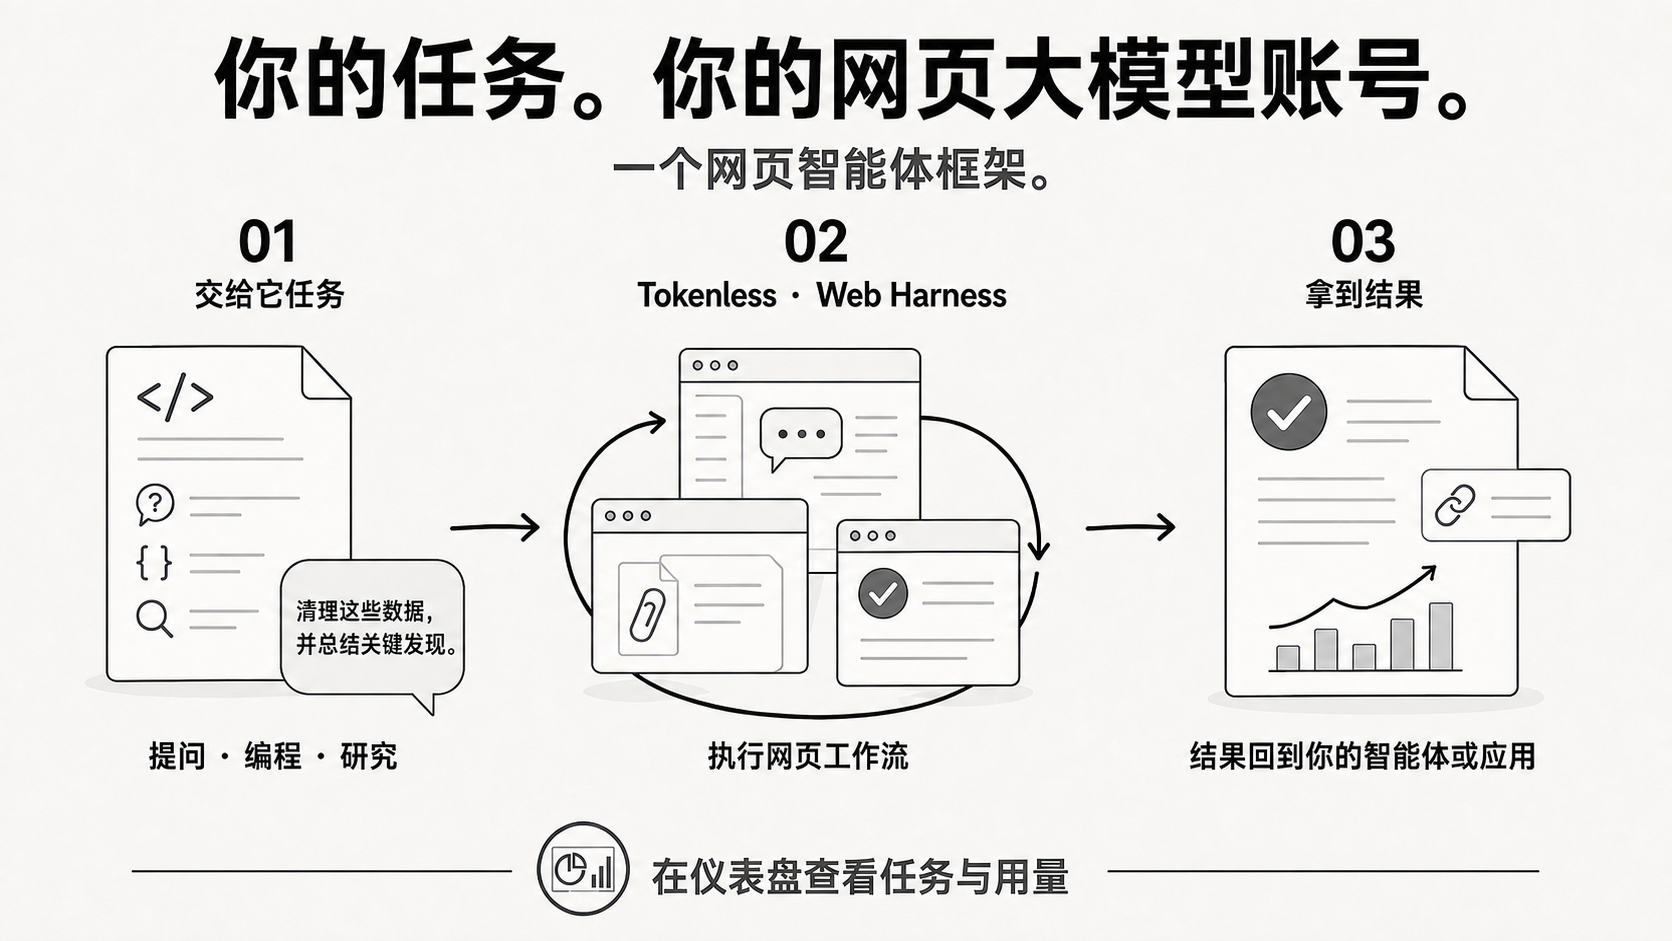
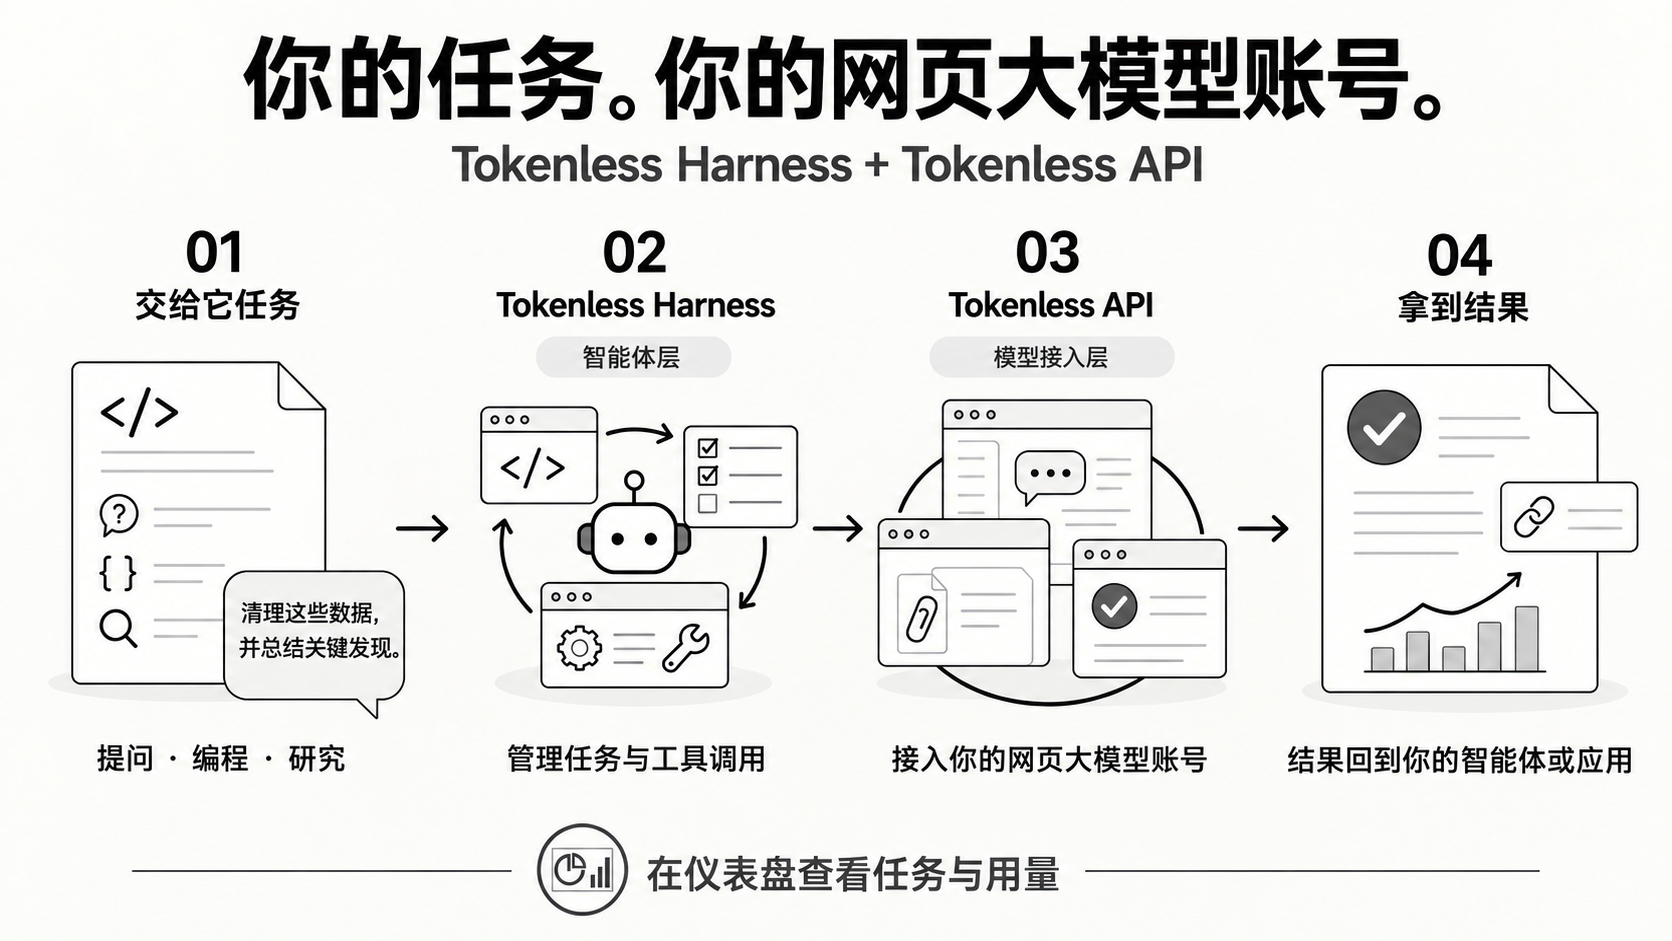
docs(readme): align usage sections and clarify harness API layers

diff --git a/README.md b/README.md
@@ -7,7 +7,11 @@
 <p align="center"><strong>Put your existing web LLM accounts to work for your agents.</strong></p>
 
 <p align="center">
-  <a href="#start-in-three-commands">Quick start</a> · <a href="#what-is-a-web-harness">What is Web Harness?</a> · <a href="#providers">Providers</a> · <a href="docs/capability-matrix.md">Capabilities</a> · <a href="README.md">English</a> · <a href="README.zh-CN.md">简体中文</a>
+  <a href="#start-in-three-commands">Quick start</a> · <a href="#what-is-a-web-harness">What is Web Harness?</a> · <a href="#providers">Providers</a> · <a href="docs/capability-matrix.md">Capabilities</a>
+</p>
+
+<p align="center">
+  <a href="README.md">English</a> · <a href="README.zh-CN.md">简体中文</a>
 </p>
 
 <p align="center">
@@ -18,14 +22,13 @@
 
 ## Three ways to use Tokenless
 
-### 1. Tokenless Harness + API · Main workflow
+### 1. Tokenless Harness + Tokenless API
 
-Give Tokenless Harness a task; it manages execution through Tokenless API and returns the result.
+Tokenless Harness manages tasks and tool calls; Tokenless API connects your web LLM accounts and returns model responses to the Harness.
 
-![Bring a task → Tokenless Web Harness runs the web workflow → results return to your agent or app; follow activity in Dashboard](assets/web-harness-workflow-en.png)
+![Bring a task → Tokenless Harness manages tasks and tools → Tokenless API connects your web LLM accounts → get results; follow activity in Dashboard](assets/web-harness-workflow-en.png)
 
-<details>
-<summary>2. Your own Harness + Tokenless API</summary>
+### 2. Your own Harness + Tokenless API
 
 Keep your Harness’s agent loop, tools, and sessions; connect its model interface to Tokenless API.
 
@@ -33,18 +36,13 @@ Keep your Harness’s agent loop, tools, and sessions; connect its model interfa
 
 [API setup and compatibility limits](docs/api-proxy-integration.md) · [Harness integration](docs/harness-integrations.md)
 
-</details>
-
-<details>
-<summary>3. Your own Harness + Tokenless skill</summary>
+### 3. Your own Harness + Tokenless skill
 
 Add the Tokenless skill to your Harness; invoke it for selected tasks and bring the results back into your usual workflow.
 
 ![Keep your workflow → call the Tokenless skill on demand for a selected task → continue in your own Harness](assets/tokenless-skill-workflow-en.png)
 
 `tokenless setup` installs the skill into supported local agent skill directories. [Setup](COMMANDS.md#tokenless-setup) · [Skill instructions](skills/tokenless/SKILL.md)
-
-</details>
 
 <sub>AI-generated use-case illustrations. Available capabilities depend on the selected provider’s verified support.</sub>
 

diff --git a/README.zh-CN.md b/README.zh-CN.md
@@ -7,7 +7,11 @@
 <p align="center"><strong>让你已有的网页大模型账号，为 Agent 完成任务。</strong></p>
 
 <p align="center">
-  <a href="#三条命令开始使用">快速开始</a> · <a href="#什么是-web-harness">什么是 Web Harness</a> · <a href="#providers">Providers</a> · <a href="docs/capability-matrix.zh-CN.md">支持的能力</a> · <a href="README.md">English</a> · <a href="README.zh-CN.md">简体中文</a>
+  <a href="#三条命令开始使用">快速开始</a> · <a href="#什么是-web-harness">什么是 Web Harness</a> · <a href="#providers">Providers</a> · <a href="docs/capability-matrix.zh-CN.md">支持的能力</a>
+</p>
+
+<p align="center">
+  <a href="README.md">English</a> · <a href="README.zh-CN.md">简体中文</a>
 </p>
 
 <p align="center">
@@ -18,14 +22,13 @@
 
 ## 三种使用方式
 
-### 1. Tokenless Harness + API · 主流用法
+### 1. Tokenless Harness + Tokenless API
 
-把任务交给 Tokenless Harness；它通过 Tokenless API 执行任务，并返回结果。
+Tokenless Harness 管理任务与工具调用；Tokenless API 接入你的网页大模型账号，将模型回复交回 Harness。
 
-![交给它任务 → Tokenless Web Harness 执行网页工作流 → 结果回到智能体或应用；在仪表盘查看任务与用量](assets/web-harness-workflow-zh-CN.png)
+![交给它任务 → Tokenless Harness 管理任务与工具 → Tokenless API 接入网页大模型账号 → 拿到结果；在仪表盘查看任务与用量](assets/web-harness-workflow-zh-CN.png)
 
-<details>
-<summary>2. 自选 Harness + Tokenless API</summary>
+### 2. 自选 Harness + Tokenless API
 
 保留自己的 Harness、工具和会话，把模型接口接到 Tokenless API；任务流程仍由你的 Harness 管理。
 
@@ -33,18 +36,13 @@
 
 [API 接入与兼容范围](docs/api-proxy-integration.zh-CN.md) · [Harness 集成](docs/harness-integrations.zh-CN.md)
 
-</details>
-
-<details>
-<summary>3. 自选 Harness + Tokenless Skill</summary>
+### 3. 自选 Harness + Tokenless Skill
 
 把 Tokenless Skill 装入自己的 Harness，只在需要时调用，交出选定任务，再带回结果继续原有工作流。
 
 ![沿用自己的工作流 → 按需调用 Tokenless 技能处理选定任务 → 在自己的框架中继续工作](assets/tokenless-skill-workflow-zh-CN.png)
 
 `tokenless setup` 会将 Skill 安装到受支持的本地 Agent 技能目录。[安装说明](COMMANDS.zh-CN.md#tokenless-setup) · [Skill 使用指引](skills/tokenless/SKILL.md)
-
-</details>
 
 <sub>AI 生成的用途示意图；具体能力以所选 provider 的已验证支持为准。</sub>
 
